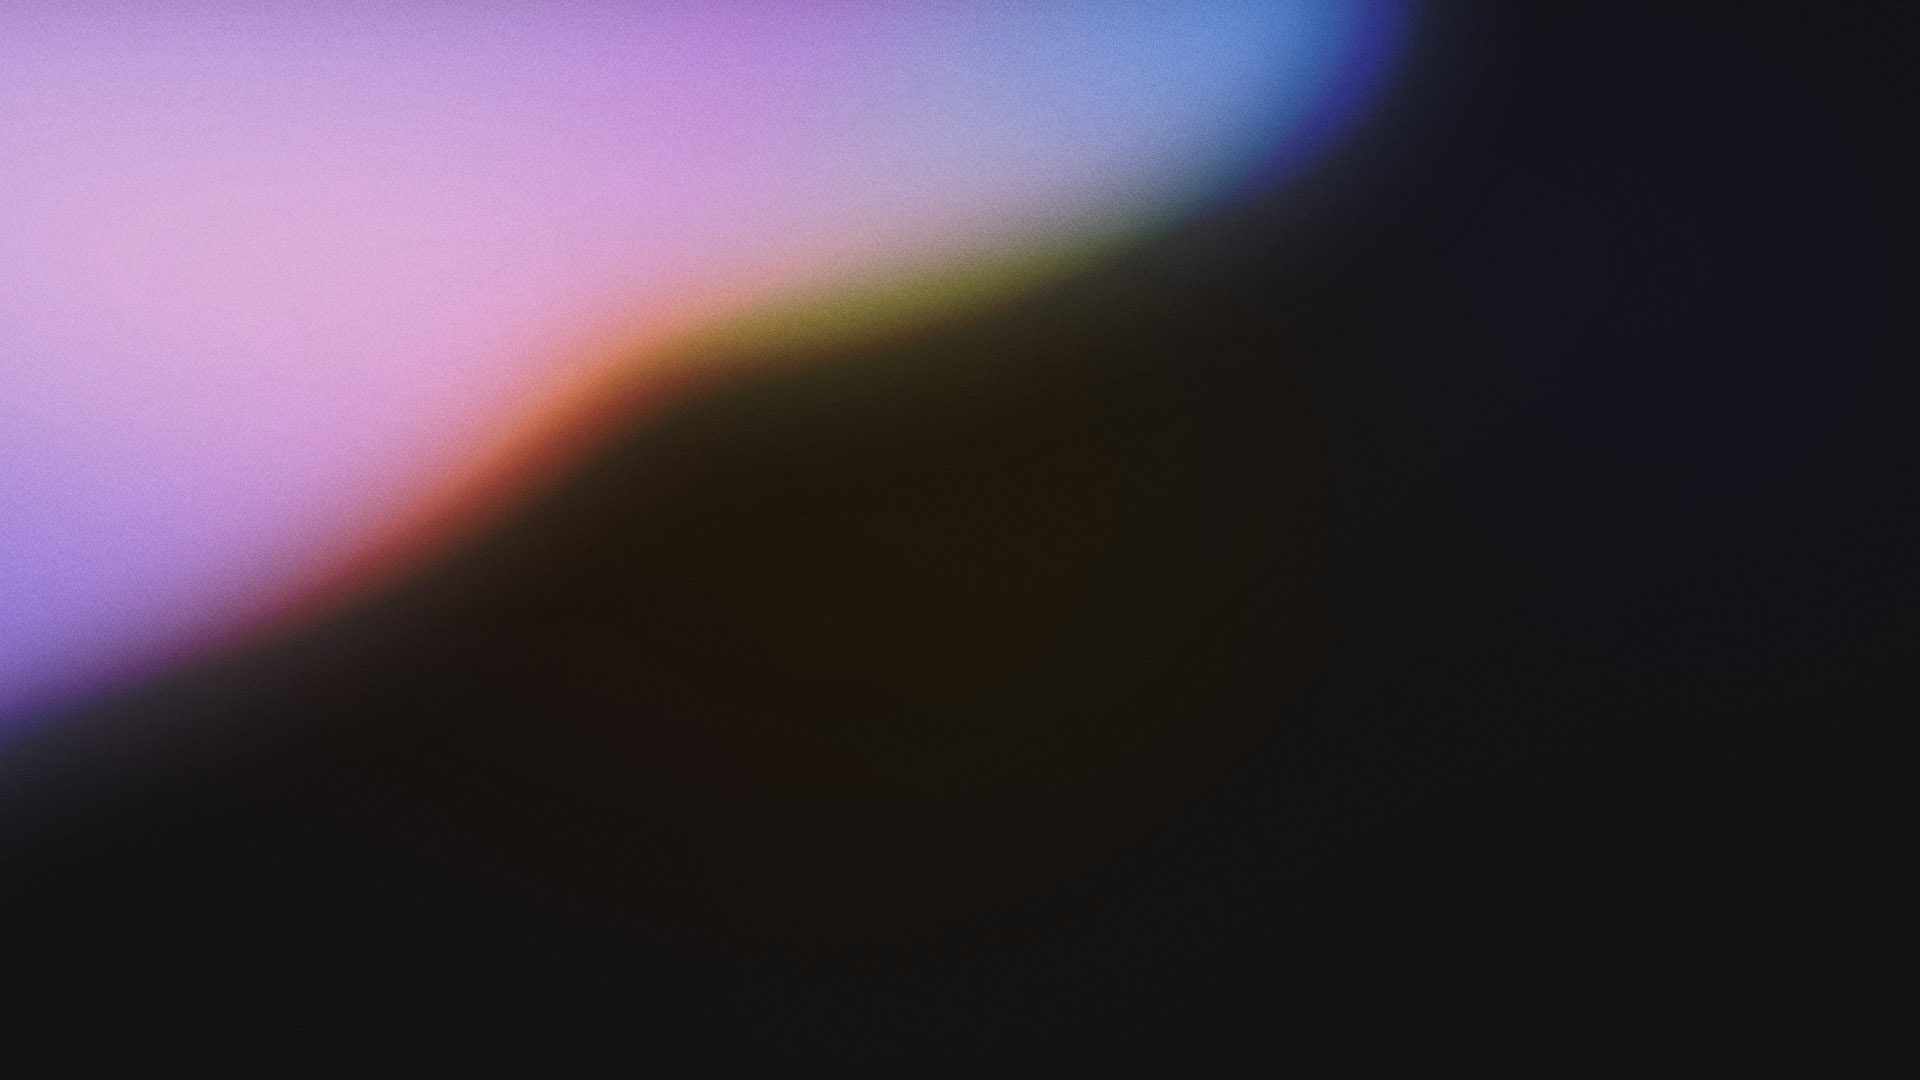
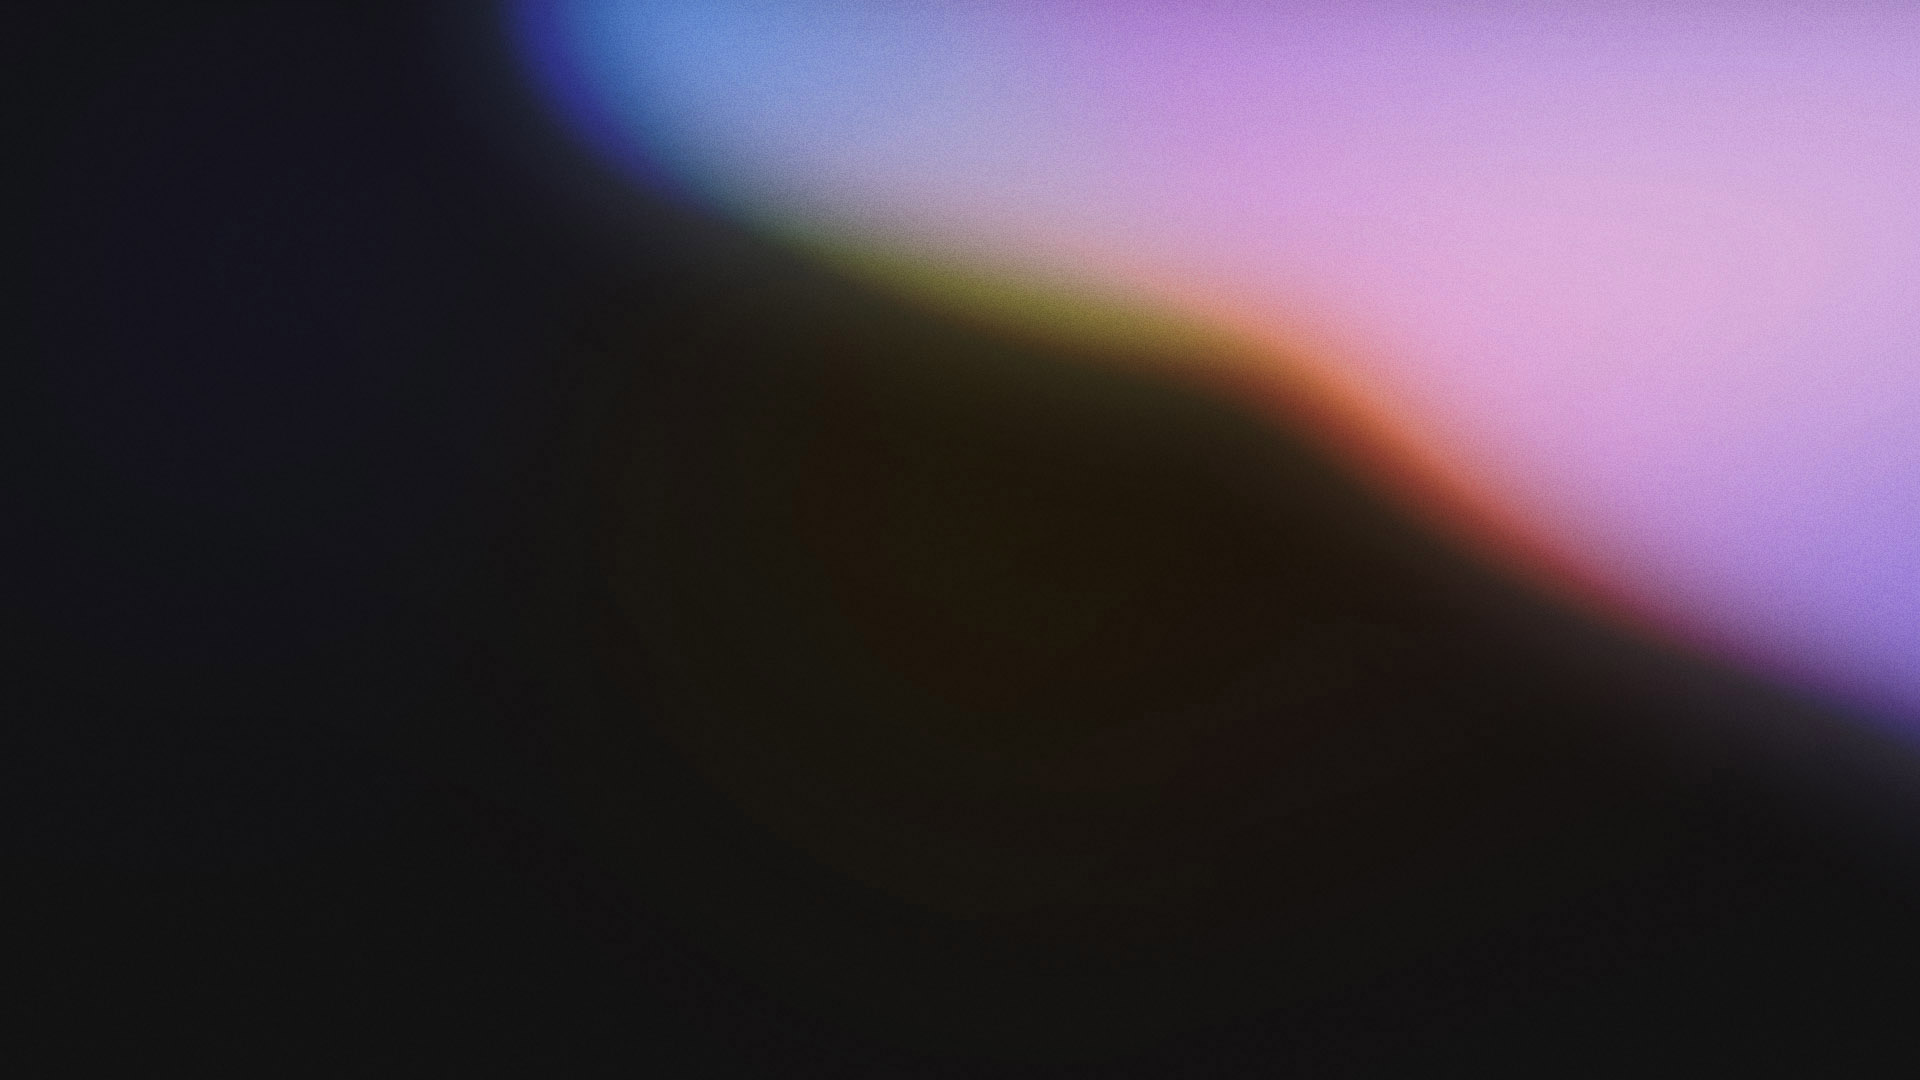
Modify design

diff --git a/src/components/hero/index.tsx b/src/components/hero/index.tsx
@@ -4,6 +4,7 @@ import styles from "./Hero.module.scss";
 import Name from "./name";
 import SubHeader from "./subHeader";
 import StarFall from "./starFall";
+import { motion, AnimatePresence } from "framer-motion";
 
 export default function Hero() {
   const [bgMoving, setBgMoving] = useState(true);
@@ -18,14 +19,19 @@ export default function Hero() {
 
   return (
     <section className={styles.heroSection} id="main">
-      {!bgMoving && (
-        <img
-          src="/images/gradient_bg.jpg"
-          style={{ width: "100%", position: "absolute", top: "0" }}
-          className={styles.staticBg}
-          alt="Decorative background image of a colorful gradient on black backdrop"
-        ></img>
-      )}
+      <AnimatePresence>
+        {!bgMoving && (
+          <motion.img
+            src="/images/gradient_bg.jpg"
+            style={{ width: "100%", position: "absolute", top: "0" }}
+            className={styles.staticBg}
+            alt="Decorative background image of a colorful gradient on black backdrop"
+            initial={{ opacity: 0 }}
+            animate={{ opacity: 1 }}
+            exit={{ opacity: 0 }}
+          ></motion.img>
+        )}
+      </AnimatePresence>
       <Name
         bgMoving={bgMoving}
         setBgMoving={setBgMoving}

diff --git a/src/components/hero/Hero.module.scss b/src/components/hero/Hero.module.scss
@@ -12,9 +12,7 @@
   z-index: 0;
 
   .staticBg {
-    position: absolute;
-    animation: fade-in 1s ease both;
-    transform: scaleX(-2) scaleY(2) translateY(25%) translateX(25%);
+    transform: scaleX(2) scaleY(2) translateY(20%) translateX(-25%);
   }
 }
 
@@ -22,10 +20,9 @@
   .heroSection {
     height: min(90svh, 75vw);
     height: min(90vh, 75vw);
-    width: 100%;
 
     .staticBg {
-      transform: scaleX(-1) scaleY(1) translateY(0) translateX(0);
+      transform: scaleX(1) scaleY(1) translateY(0%) translateX(0%);
     }
   }
 }

diff --git a/src/components/about/index.tsx b/src/components/about/index.tsx
@@ -41,7 +41,7 @@ export default function About() {
             <span
               className={styles.stripe}
               style={{
-                width: isInView ? "106%" : "0%",
+                width: isInView ? "103%" : "0%",
                 transitionDelay: "1000ms"
               }}
             ></span>

diff --git a/src/components/contact/Contact.module.scss b/src/components/contact/Contact.module.scss
@@ -20,7 +20,7 @@
     background-position: 40%;
     background-repeat: no-repeat;
     opacity: var(--opacity);
-    transform: scaleY(-1);
+    transform: scaleY(-1) scaleX(-1);
     transition: 2s ease;
     z-index: -1;
   }

diff --git a/src/components/projects/projectCard/ProjectCard.module.scss b/src/components/projects/projectCard/ProjectCard.module.scss
@@ -203,7 +203,7 @@
       }
 
       a:hover {
-        background-color: rgba(0, 38, 255, 0.336);
+        background-color: rgba(0, 119, 255, 0.336);
       }
     }
   }
